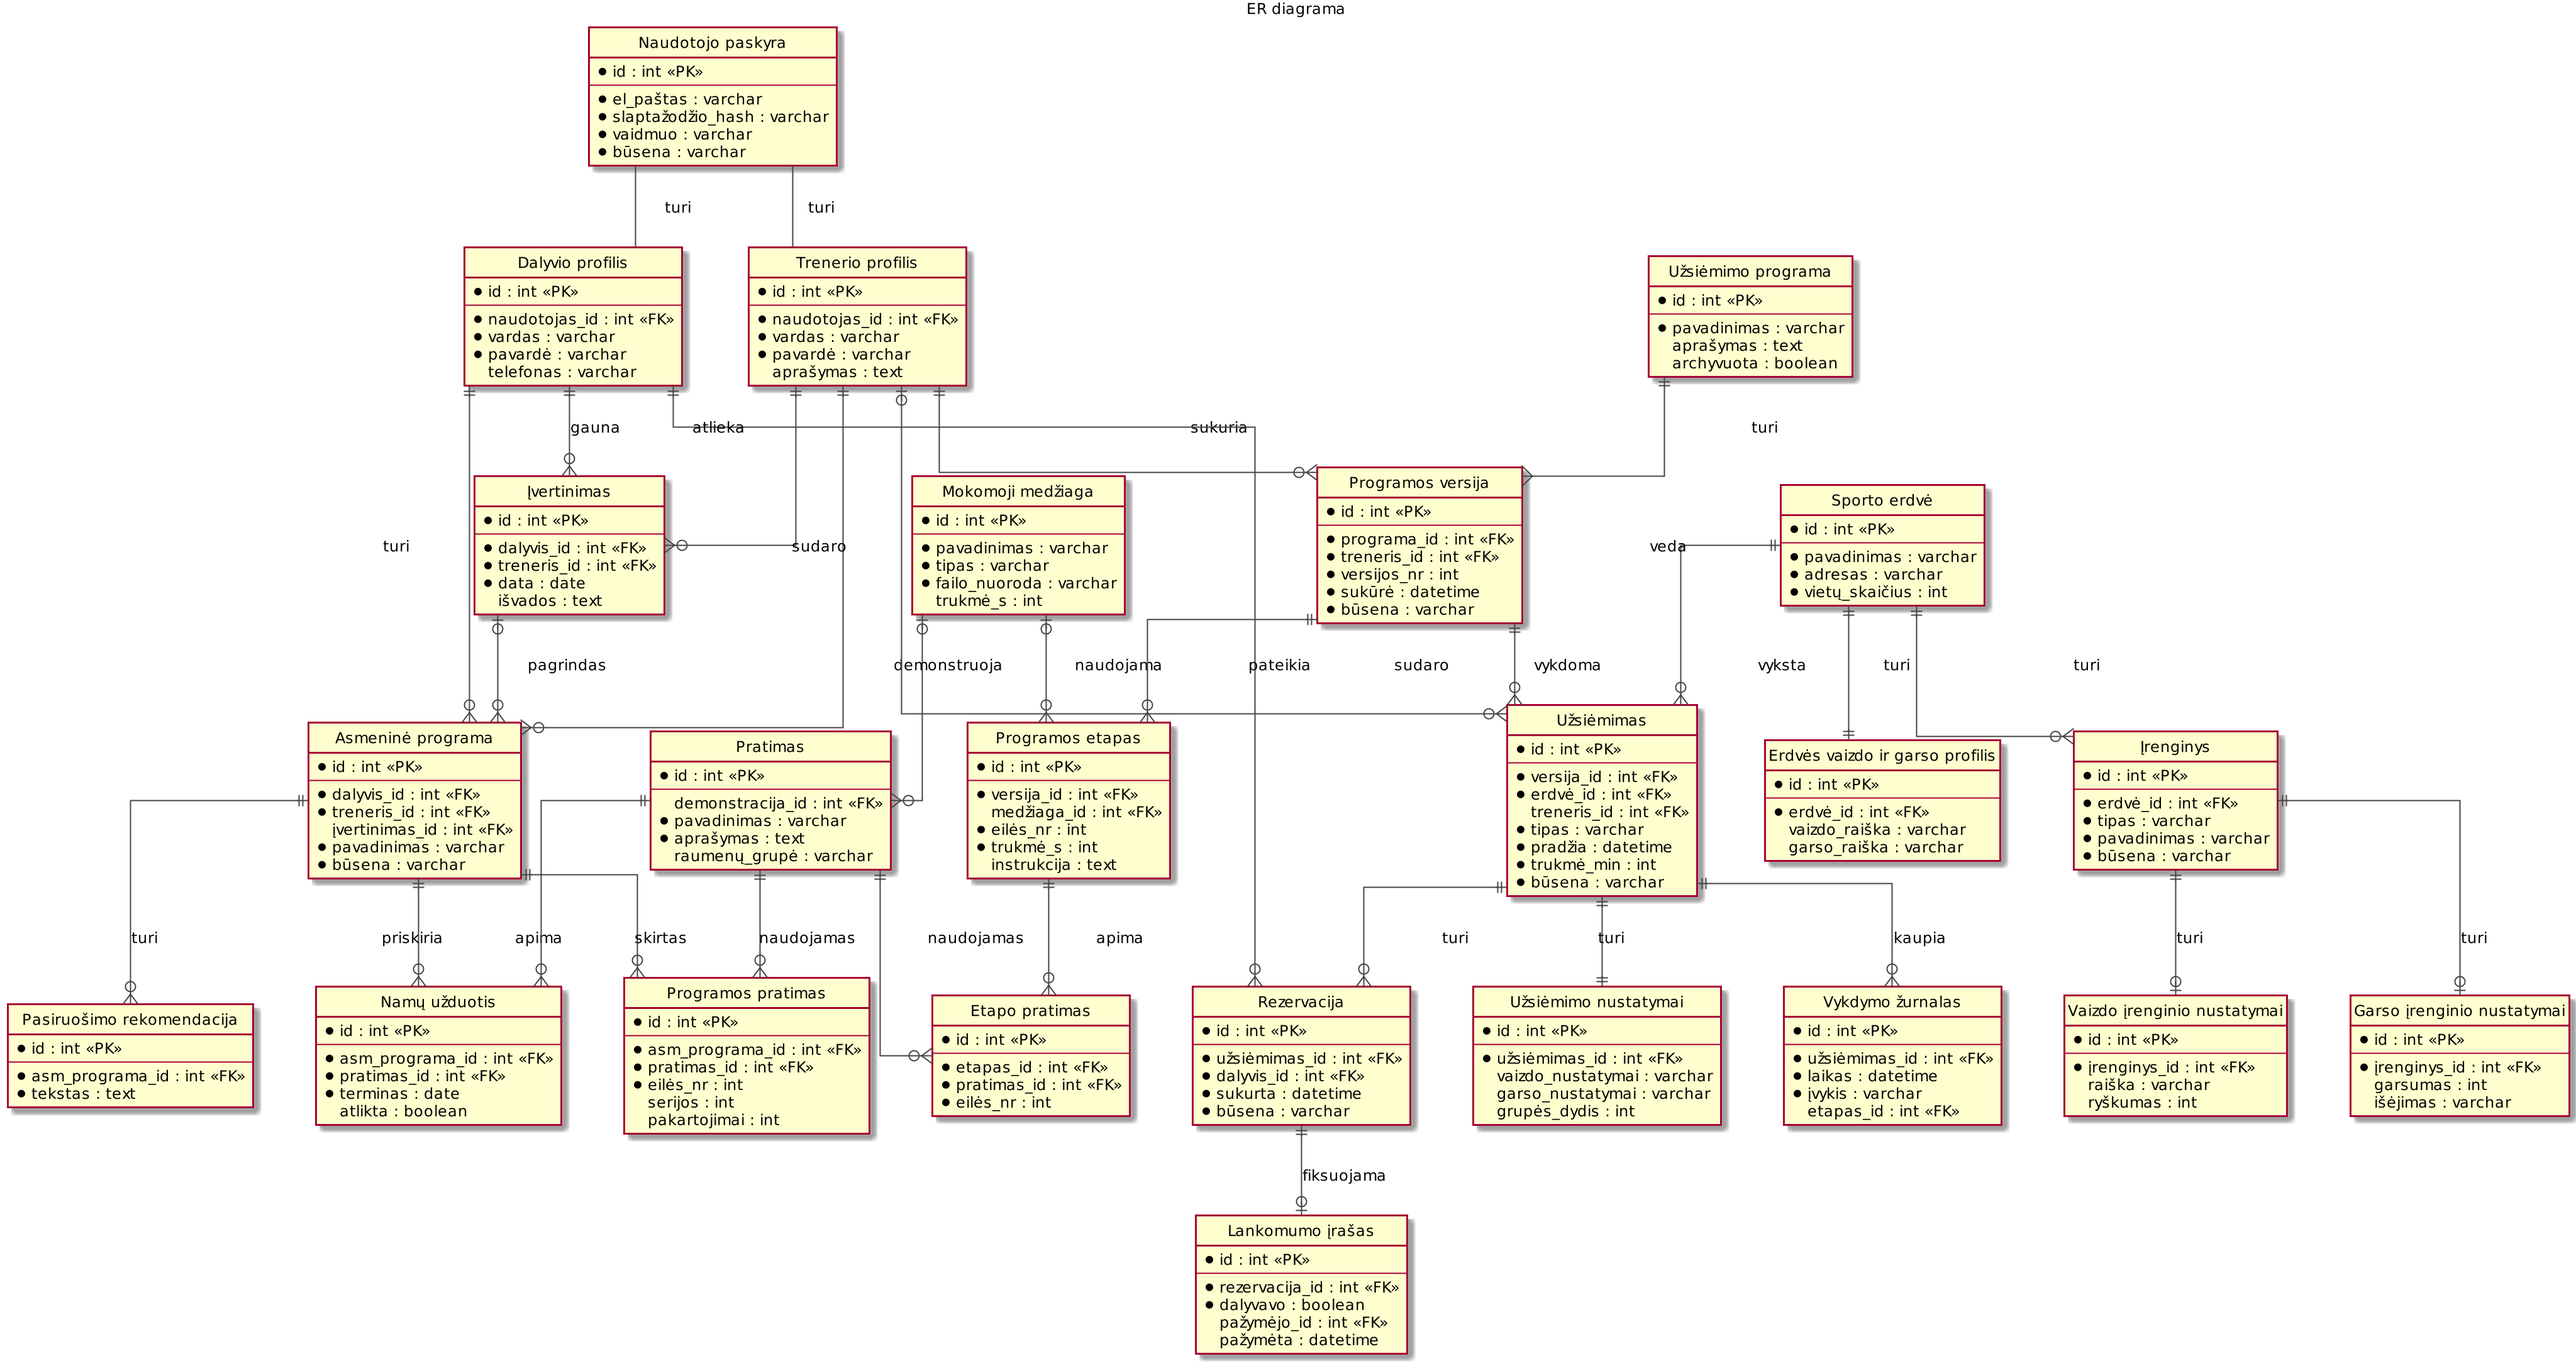
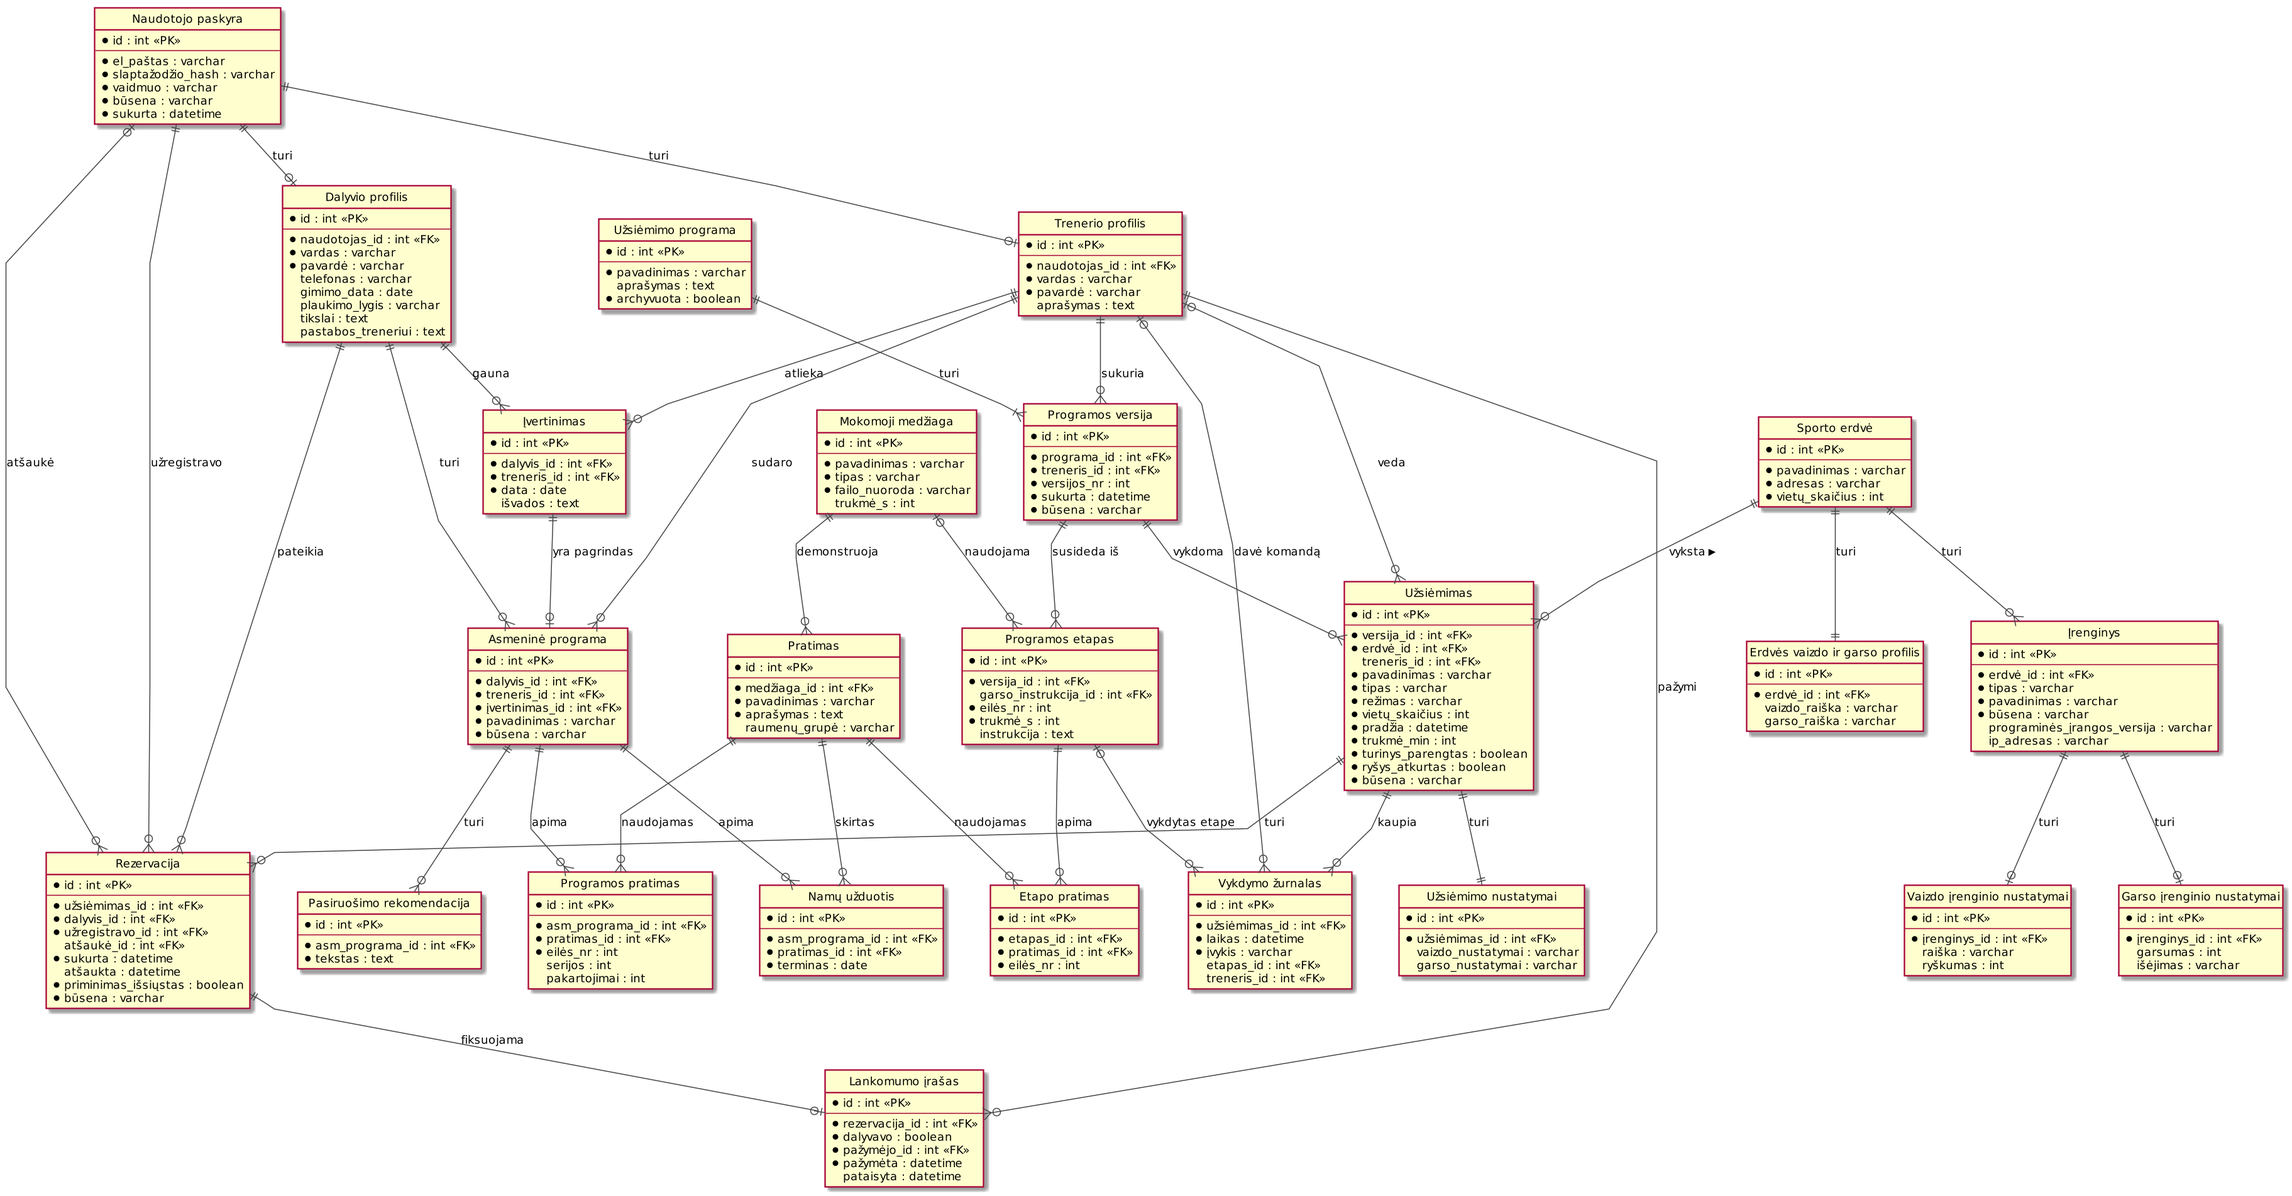
Updates from Overleaf

diff --git a/OOA analizė/Analizės klasių diagrama/klasiu_diagrama_LT.tex b/OOA analizė/Analizės klasių diagrama/klasiu_diagrama_LT.tex
@@ -1,0 +1,77 @@
+% ---------------------------------------------------------------------
+% 2.1 skyrius. Analizės klasių diagrama
+% Naudojimas pagrindiniame dokumente:   \input{analizes-klasiu-diagrama}
+% Reikalingi paketai: graphicx, booktabs, longtable, array, caption
+% Paveikslėlis: diagramos/analizes-klasiu-diagrama.png
+% (iš .puml: java -jar plantuml.jar -charset UTF-8 -tpng diagramos/*.puml)
+% ---------------------------------------------------------------------
+
+\subsection{Analizės klasių diagrama}
+\label{sec:analizes-klasiu-diagrama}
+
+Analizės klasių diagrama (\ref{fig:analizes-klasiu-diagrama} pav.) parodo sistemos
+dalykinės srities sąvokas, jų savybes, pagrindines atsakomybes ir ryšius. Esybių klasės
+atitinka ER diagramos esybes ir panaudojimo atvejų
+analizėje suderintus terminus: naudotojo paskyra, dalyvio profilis, trenerio profilis,
+sporto erdvė, įrenginys, pratimas, mokomoji medžiaga, užsiėmimo programa ir jos versija,
+programos etapas, užsiėmimas, rezervacija, lankomumo įrašas, asmeninė programa,
+įvertinimas, pasiruošimo rekomendacija, namų užduotis ir vykdymo žurnalas.
+
+Diagramoje laikomasi šių sprendimų:
+\begin{itemize}
+  \item Vietinis grotuvas, vidinis laikmatis ir virtualaus trenerio režimas nėra atskiros
+        esybių klasės: virtualaus trenerio užsiėmimas pažymimas užsiėmimo atributu
+        \emph{režimas}, o tuščias \emph{treneris} nurodo virtualų trenerį.
+  \item Vaidmenys (dalyvis, treneris, administratorius) išreikšti naudotojo paskyros
+        atributu \emph{vaidmuo}; administratorius profilio neturi.
+  \item Dalyvis su treneriu susiejamas tik per rezervaciją, nuolatinio priskyrimo
+        klasės nėra.
+  \item Lankomumo įrašas susietas su rezervacija; žymos nebuvimas reiškia, kad
+        lankomumas nepažymėtas, o ne „nedalyvavo“.
+  \item Ryšių kardinalumas žymimas pagal \ref{tab:er-zymejimas} lentelę.
+\end{itemize}
+
+\begin{figure}[H]
+  \centering
+  \includegraphics[width=\textwidth,height=0.88\textheight,keepaspectratio]{OOA analizė/Analizės klasių diagrama/analizes-klasiu-diagrama.png}
+  \caption{Analizės klasių diagrama}
+  \label{fig:analizes-klasiu-diagrama}
+\end{figure}
+
+\paragraph{Klasių aprašai.}
+
+\begin{longtable}{@{}p{0.27\textwidth}p{0.45\textwidth}p{0.20\textwidth}@{}}
+\caption{Analizės esybių klasės ir jų atsakomybės}\label{tab:analizes-klases}\\
+\toprule
+\textbf{Klasė} & \textbf{Atsakomybė} & \textbf{PA} \\
+\midrule
+\endfirsthead
+\toprule
+\textbf{Klasė} & \textbf{Atsakomybė} & \textbf{PA} \\
+\midrule
+\endhead
+\bottomrule
+\endfoot
+NaudotojoPaskyra & Prisijungimo duomenys, vaidmuo ir paskyros būsena (aktyvi, neaktyvi) & PA-01, PA-02 \\
+DalyvioProfilis & Dalyvio asmens duomenys, plaukimo lygis, tikslai ir pastabos treneriui & PA-01, PA-13 \\
+TrenerioProfilis & Trenerio duomenys; treneris kuria programas, veda užsiėmimus ir žymi lankomumą & PA-05, PA-06 \\
+SportoErdvė & Erdvės pavadinimas, adresas ir vietų skaičius; šalinimas blokuojamas esant priklausomybių & PA-03 \\
+ErdvėsVaizdoIrGarsoProfilis & Erdvei skirta vaizdo ir garso raiška & PA-03 \\
+Įrenginys & Erdvėje registruojama įranga, jos būsena (naudojamas, taisomas, grąžintas) ir programinės įrangos versija & PA-03 \\
+VaizdoĮrenginioNustatymai, GarsoĮrenginioNustatymai & Įrenginio vaizdo (raiška, ryškumas) ir garso (garsumas, išėjimas) nustatymai & PA-03 \\
+Pratimas & Pratimo pavadinimas, aprašymas ir raumenų grupė; susietas su demonstracine medžiaga; naudojamas pratimas nešalinamas & PA-04 \\
+MokomojiMedžiaga & Patvirtintas vaizdo ar garso failas (Full HD riba) su metaduomenimis & PA-04 \\
+UžsiėmimoPrograma & Programos pavadinimas ir aprašymas; naudojama programa archyvuojama, ne šalinama & PA-05 \\
+ProgramosVersija & Nekeičiama programos versija; viena versija aktuali, ankstesnės lieka istorijoje & PA-05 \\
+ProgramosEtapas & Etapo eilė, trukmė ir instrukcija; susieja pratimus (per EtapoPratimas) ir garso instrukcijos medžiagą & PA-05, PA-15 \\
+Užsiėmimas & Suplanuotas individualus ar grupinis užsiėmimas (su treneriu arba virtualus): laikas, erdvė, programos versija, vietos, būsena & PA-06--PA-08, PA-15 \\
+UžsiėmimoNustatymai & Užsiėmimo vaizdo ir garso nustatymai & PA-15 \\
+Rezervacija & Dalyvio vieta užsiėmime (aktyvi, atšaukta, pašalinta), kas ją sukūrė ar atšaukė, priminimo žyma & PA-09--PA-11, PA-18 \\
+LankomumoĮrašas & Faktinis dalyvavimas (dalyvavo / nedalyvavo), kas ir kada pažymėjo ar pataisė & PA-12, PA-17 \\
+VykdymoŽurnalas & Užsiėmimo vykdymo įvykiai ir ryšio sutrikimai (be trenerio -- sutrikimas) & PA-15, PA-16 \\
+Įvertinimas & Individualus trenerio atliktas dalyvio įvertinimas, pagrindžiantis asmeninę programą & PA-13 \\
+AsmeninėPrograma & Dalyviui sudaryta programa (galiojanti, užbaigta, archyvuota), keičiama nuotoliniu būdu & PA-13, PA-14 \\
+ProgramosPratimas & Asmeninės programos pratimas su eile, serijomis ir pakartojimais & PA-13, PA-14 \\
+NamųUžduotis & Dalyviui skirta užduotis, susieta su pratimu ir terminu & PA-13, PA-14 \\
+PasirengimoRekomendacija & Rekomendacijos tekstas asmeninei programai & PA-13, PA-14 \\
+\end{longtable}

diff --git a/Struktūrinė analizė/ER diagrama/er_modelis.tex b/Struktūrinė analizė/ER diagrama/er_modelis.tex
@@ -1,6 +1,71 @@
-\begin{figure}
+\subsection{Esybių ir ryšių diagrama}\label{sec:er}
+
+Esybių ir ryšių (ER) diagrama (\ref{fig:er} pav.) parodo, kokius duomenis saugo sistema ir kaip jie tarpusavyje susiję. Diagramos esybės atitinka funkcinių taškų priedo vidinių loginių failų P0.1--P4.1 įrašų tipus (iš viso 24) ir duomenų srautų diagramų saugyklas D1--D9. Grotuvo kopija (D10) į ER neįtraukta, nes ji nėra pagrindinės sistemos duomenų bazės dalis.
+
+Ryšių žymėjimas paaiškintas \ref{tab:er-zymejimas} lentelėje. Ryšys skaitomas pagal ženklus abiejuose linijos galuose, pvz., ryšys tarp Sporto erdvės ir Įrenginio reiškia, kad viena erdvė turi nulį ar daugiau įrenginių, o kiekvienas įrenginys priklauso lygiai vienai erdvei.
+
+\begin{table}[H]
+\centering
+\caption{ER diagramos ryšių žymėjimas}
+\label{tab:er-zymejimas}
+\begin{tabular}{|c|l|p{6.5cm}|}
+\hline
+\textbf{Ženklas} & \textbf{Reikšmė} & \textbf{Pavyzdys} \\
+\hline
+\texttt{\textbar\textbar} & lygiai vienas & Kiekvienas Užsiėmimas turi lygiai vieną Užsiėmimo nustatymų įrašą. \\
+\hline
+\texttt{o\textbar} & nulis arba vienas & Naudotojo paskyra turi nulį arba vieną Dalyvio profilį (administratorius profilio neturi). \\
+\hline
+\texttt{o\{} & nulis ar daugiau & Sporto erdvė turi nulį ar daugiau Įrenginių. \\
+\hline
+\texttt{\textbar\{} & vienas ar daugiau & Užsiėmimo programa turi bent vieną Programos versiją. \\
+\hline
+\texttt{*} prie atributo & privalomas atributas & \texttt{* pavadinimas} -- reikšmė būtina. \\
+\hline
+\texttt{<PK>}, \texttt{<FK>} & pirminis ir išorinis raktas & \texttt{naudotojas\_id <FK>} nurodo į Naudotojo paskyrą. \\
+\hline
+\end{tabular}
+\end{table}
+
+Kai kurių taisyklių ryšių kardinalumas neparodo:
+\begin{itemize}
+    \item dalyvis viename užsiėmime turi ne daugiau kaip vieną aktyvią rezervaciją;
+    \item aktyvių rezervacijų yra ne daugiau nei užsiėmimo vietų;
+    \item programa turi tik vieną aktualią versiją;
+    \item užsiėmimas iki pradžios vykdo aktualią programos versiją, o prasidėjus versija nebekeičiama;
+    \item tuščias užsiėmimo \texttt{treneris\_id} reiškia virtualaus trenerio užsiėmimą (taip pat nurodo atributas \texttt{režimas}), o tuščias vykdymo žurnalo \texttt{treneris\_id} -- ryšio sutrikimo įrašą.
+\end{itemize}
+
+Atributo \texttt{būsena} reikšmės atitinka esybių gyvavimo ciklų poskyrį (\ref{tab:er-busenos} lentelė).
+
+\begin{table}[H]
+\centering
+\caption{ER esybių būsenų reikšmės}
+\label{tab:er-busenos}
+\begin{tabular}{|l|p{9cm}|}
+\hline
+\textbf{Esybė} & \textbf{Reikšmės} \\
+\hline
+Užsiėmimas & suplanuotas, vykdomas, pristabdytas, vykdomas be ryšio, užbaigtas, atšauktas, neįvykęs \\
+\hline
+Rezervacija & aktyvi, atšaukta, pašalinta \\
+\hline
+Programos versija & aktuali, ankstesnė \\
+\hline
+Asmeninė programa & galiojanti, užbaigta, archyvuota \\
+\hline
+Naudotojo paskyra & aktyvi, neaktyvi \\
+\hline
+Įrenginys & naudojamas, taisomas, grąžintas \\
+\hline
+\end{tabular}
+\end{table}
+
+\begin{landscape}
+\begin{figure}[H]
     \centering
-    \includegraphics[width=1\linewidth]{Struktūrinė analizė/ER diagrama/er_diagrama.png}
-    \caption{ER diagrama}
-    \label{fig:placeholder}
+    \includegraphics[width=\linewidth,height=0.8\textheight,keepaspectratio]{Struktūrinė analizė/ER diagrama/er_diagrama.png}
+    \caption{Esybių ir ryšių diagrama}
+    \label{fig:er}
 \end{figure}
+\end{landscape}
